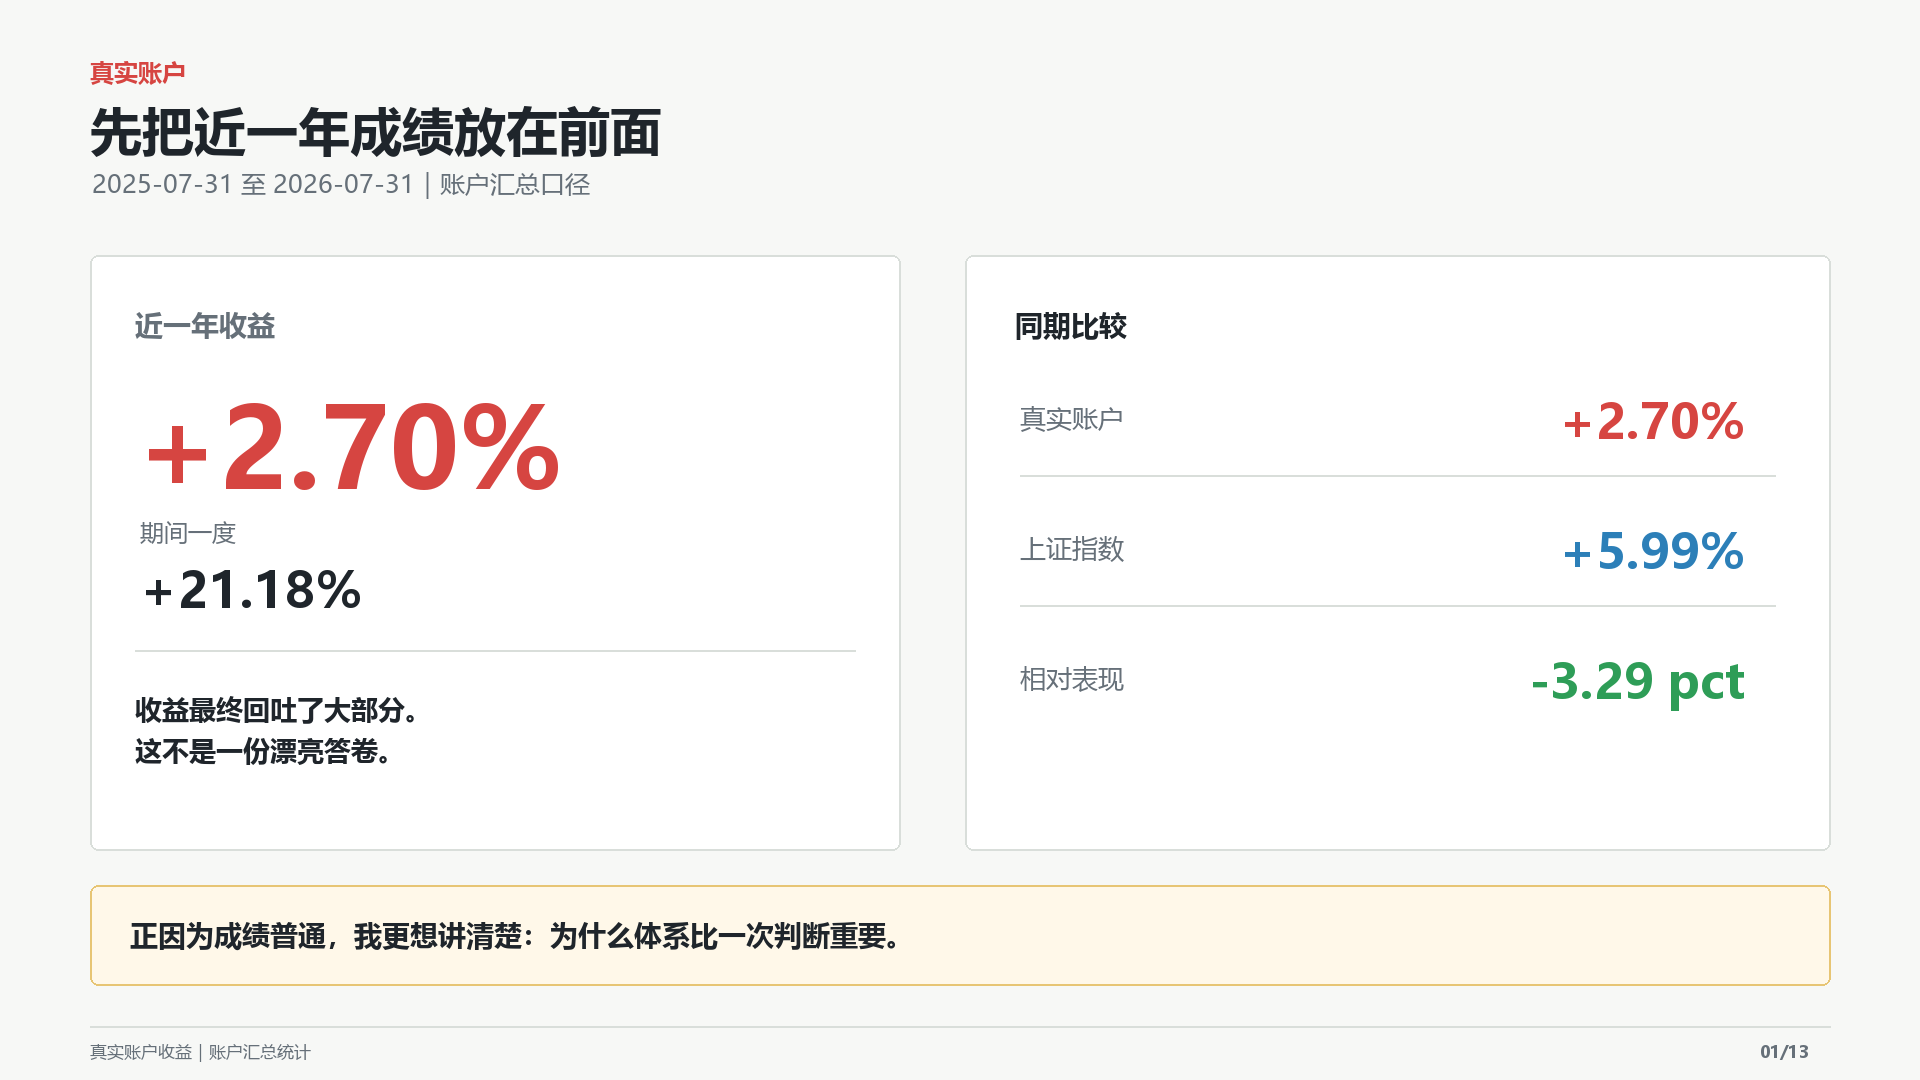
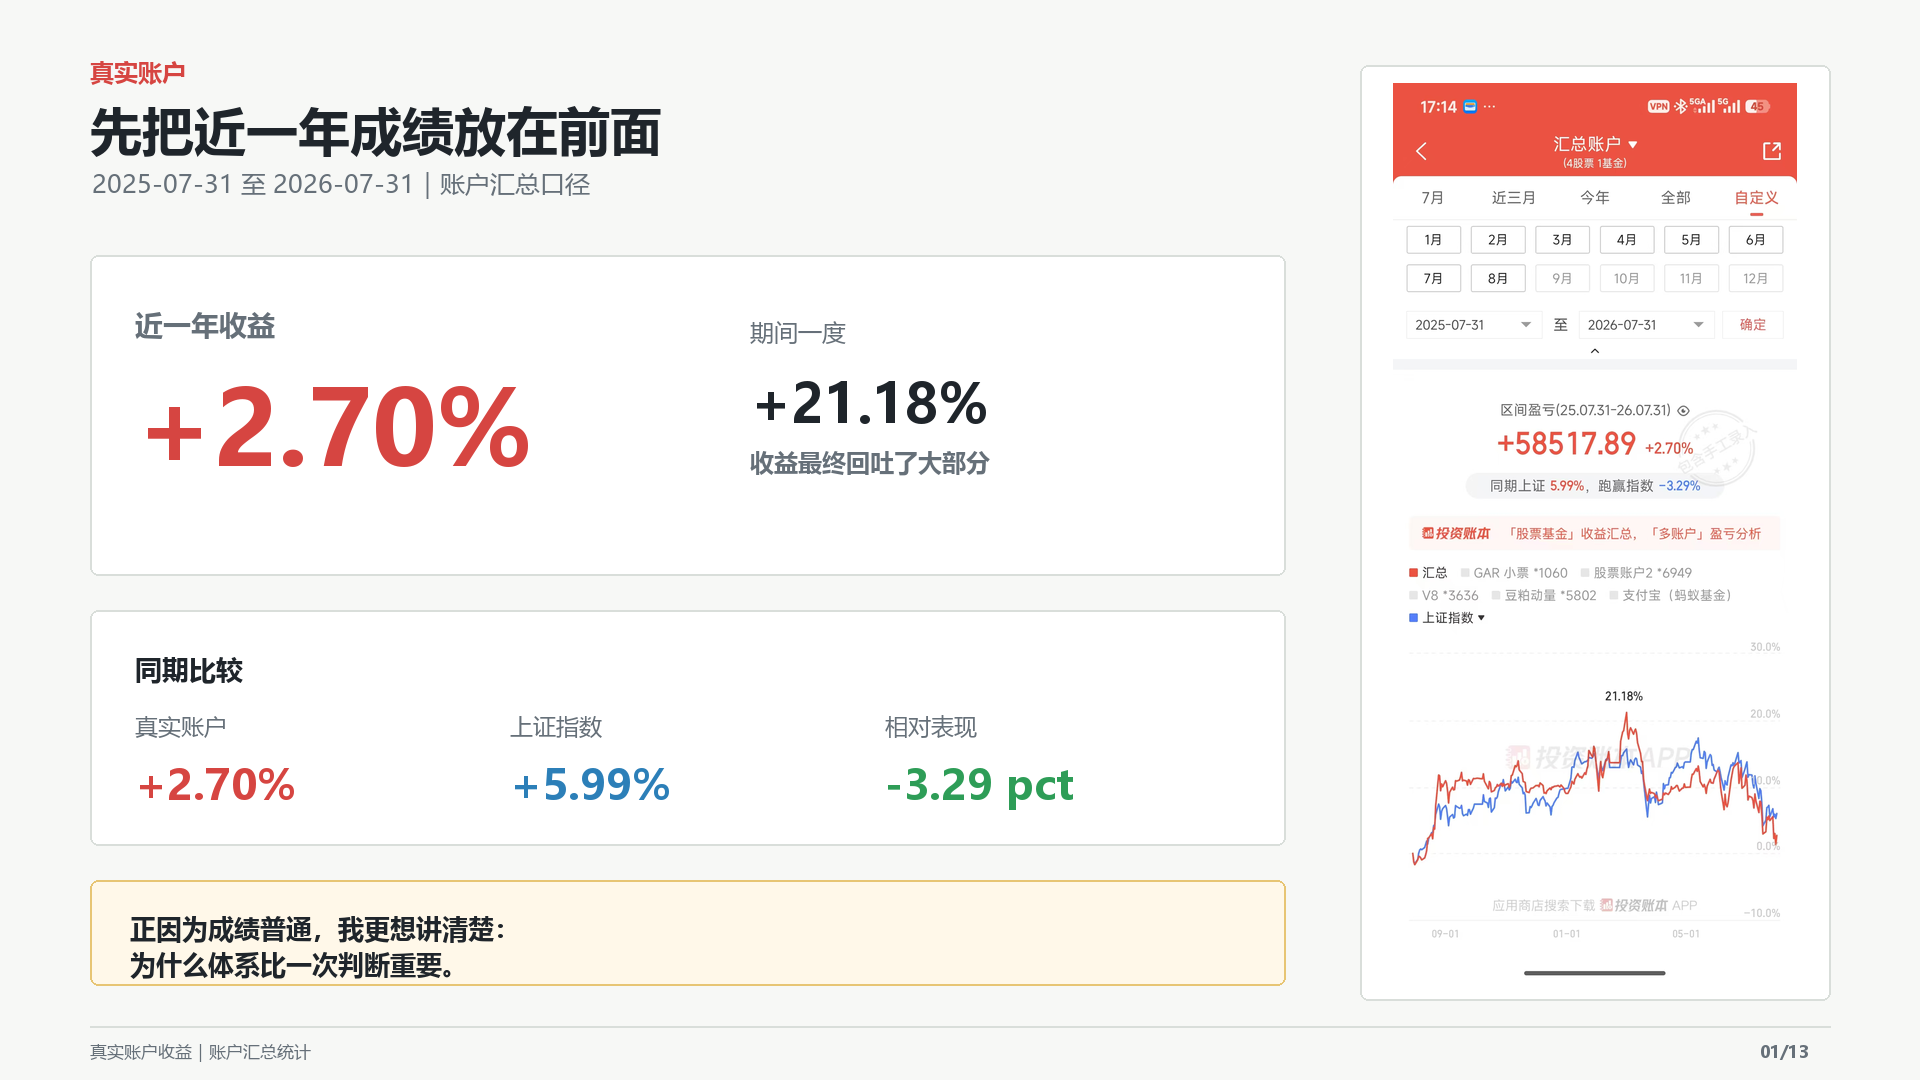
content: embed account screenshots in opening scenes

diff --git a/video_202608_strategy_review/build_assets.py b/video_202608_strategy_review/build_assets.py
@@ -20,6 +20,7 @@ from PIL import Image, ImageDraw, ImageFont
 ROOT = Path(__file__).resolve().parent
 ASSET_DIR = ROOT / "assets"
 DATA_DIR = ROOT / "data"
+SOURCE_DIR = ROOT / "source"
 NAV_PATH = DATA_DIR / "统一规则净值_最近三年.csv"
 METRIC_PATHS = {
     "6m": DATA_DIR / "策略指标_最近六个月.csv",
@@ -128,6 +129,25 @@ def paragraph(
 
 def card(draw: ImageDraw.ImageDraw, box: tuple[int, int, int, int], fill=PAPER, outline=BORDER) -> None:
     draw.rounded_rectangle(box, radius=8, fill=fill, outline=outline, width=2)
+
+
+def paste_screenshot(
+    image: Image.Image,
+    draw: ImageDraw.ImageDraw,
+    path: Path,
+    box: tuple[int, int, int, int],
+) -> None:
+    card(draw, box, fill=PAPER)
+    x1, y1, x2, y2 = box
+    screenshot = Image.open(path).convert("RGB")
+    max_width = x2 - x1 - 36
+    max_height = y2 - y1 - 36
+    scale = min(max_width / screenshot.width, max_height / screenshot.height)
+    size = (int(screenshot.width * scale), int(screenshot.height * scale))
+    screenshot = screenshot.resize(size, Image.Resampling.LANCZOS)
+    x = x1 + (x2 - x1 - size[0]) // 2
+    y = y1 + (y2 - y1 - size[1]) // 2
+    image.paste(screenshot, (x, y))
 
 
 def header(draw: ImageDraw.ImageDraw, kicker: str, title: str, subtitle: str | None = None) -> None:
@@ -259,30 +279,28 @@ def pct(value: float) -> str:
 def build_account_intro() -> Image.Image:
     image, draw = canvas()
     header(draw, "真实账户", "先把近一年成绩放在前面", "2025-07-31 至 2026-07-31｜账户汇总口径")
-    card(draw, (90, 255, 900, 850), fill=PAPER)
+    card(draw, (90, 255, 1285, 575), fill=PAPER)
     draw.text((135, 305), "近一年收益", font=font(28, True), fill=MUTED)
-    draw.text((135, 370), "+2.70%", font=font(112, True), fill=RED)
-    draw.text((140, 515), "期间一度", font=font(24), fill=MUTED)
-    draw.text((140, 555), "+21.18%", font=font(50, True), fill=INK)
-    draw.line((135, 650, 855, 650), fill=BORDER, width=2)
-    paragraph(draw, (135, 690), "收益最终回吐了大部分。\n这不是一份漂亮答卷。", font(27, True), INK, 690, 14)
+    draw.text((135, 355), "+2.70%", font=font(104, True), fill=RED)
+    draw.text((750, 315), "期间一度", font=font(24), fill=MUTED)
+    draw.text((750, 365), "+21.18%", font=font(54, True), fill=INK)
+    draw.text((750, 445), "收益最终回吐了大部分", font=font(24, True), fill=MUTED)
 
-    card(draw, (965, 255, 1830, 850), fill=PAPER)
-    draw.text((1015, 305), "同期比较", font=font(28, True), fill=INK)
+    card(draw, (90, 610, 1285, 845), fill=PAPER)
+    draw.text((135, 650), "同期比较", font=font(27, True), fill=INK)
     comparisons = [
         ("真实账户", "+2.70%", RED),
         ("上证指数", "+5.99%", BLUE),
         ("相对表现", "-3.29 pct", GREEN),
     ]
     for idx, (label, value, color) in enumerate(comparisons):
-        y = 400 + idx * 130
-        draw.text((1020, y), label, font=font(26), fill=MUTED)
-        draw.text((1745, y - 12), value, font=font(48, True), fill=color, anchor="ra")
-        if idx < 2:
-            draw.line((1020, y + 75, 1775, y + 75), fill=BORDER, width=2)
+        x = 135 + idx * 375
+        draw.text((x, 710), label, font=font(23), fill=MUTED)
+        draw.text((x, 755), value, font=font(42, True), fill=color)
 
-    card(draw, (90, 885, 1830, 985), fill="#FFF8E9", outline="#E7C574")
-    draw.text((130, 915), "正因为成绩普通，我更想讲清楚：为什么体系比一次判断重要。", font=font(28, True), fill=INK)
+    card(draw, (90, 880, 1285, 985), fill="#FFF8E9", outline="#E7C574")
+    paragraph(draw, (130, 910), "正因为成绩普通，我更想讲清楚：\n为什么体系比一次判断重要。", font(26, True), INK, 1080, 10)
+    paste_screenshot(image, draw, SOURCE_DIR / "真实账户近一年.jpg", (1360, 65, 1830, 1000))
     footer(draw, 1, "真实账户收益｜账户汇总统计")
     return image
 
@@ -299,17 +317,17 @@ def build_journey() -> Image.Image:
         ("近三四个月", "体系逐渐成形", "多策略框架开始稳定", ORANGE),
     ]
     for idx, (time_label, title, desc, color) in enumerate(items):
-        col, row = idx % 3, idx // 3
-        x = 90 + col * 590
-        y = 255 + row * 300
-        card(draw, (x, y, x + 540, y + 240), fill=PAPER)
-        draw.rectangle((x, y, x + 540, y + 10), fill=color)
-        draw.text((x + 32, y + 35), time_label, font=font(24, True), fill=color)
-        draw.text((x + 32, y + 88), title, font=font(34, True), fill=INK)
-        draw.text((x + 32, y + 158), desc, font=font(23), fill=MUTED)
-    card(draw, (90, 875, 1830, 985), fill="#FFF8E9", outline="#E7C574")
-    draw.text((130, 910), "入市八年，不等于真正懂投资八年。", font=font(30, True), fill=INK)
-    draw.text((875, 914), "过去更像是在行情里被动漂流。", font=font(26, True), fill=AMBER)
+        col, row = idx % 2, idx // 2
+        x = 90 + col * 600
+        y = 245 + row * 205
+        card(draw, (x, y, x + 550, y + 170), fill=PAPER)
+        draw.rectangle((x, y, x + 550, y + 9), fill=color)
+        draw.text((x + 28, y + 28), time_label, font=font(21, True), fill=color)
+        draw.text((x + 28, y + 68), title, font=font(29, True), fill=INK)
+        draw.text((x + 28, y + 123), desc, font=font(20), fill=MUTED)
+    card(draw, (90, 875, 1240, 985), fill="#FFF8E9", outline="#E7C574")
+    paragraph(draw, (130, 905), "入市八年，不等于真正懂投资八年。\n过去更像是在行情里被动漂流。", font(26, True), INK, 1040, 10)
+    paste_screenshot(image, draw, SOURCE_DIR / "历年收益记录.jpg", (1360, 65, 1830, 1000))
     footer(draw, 2, "个人投资经历｜2018 至今")
     return image
 
